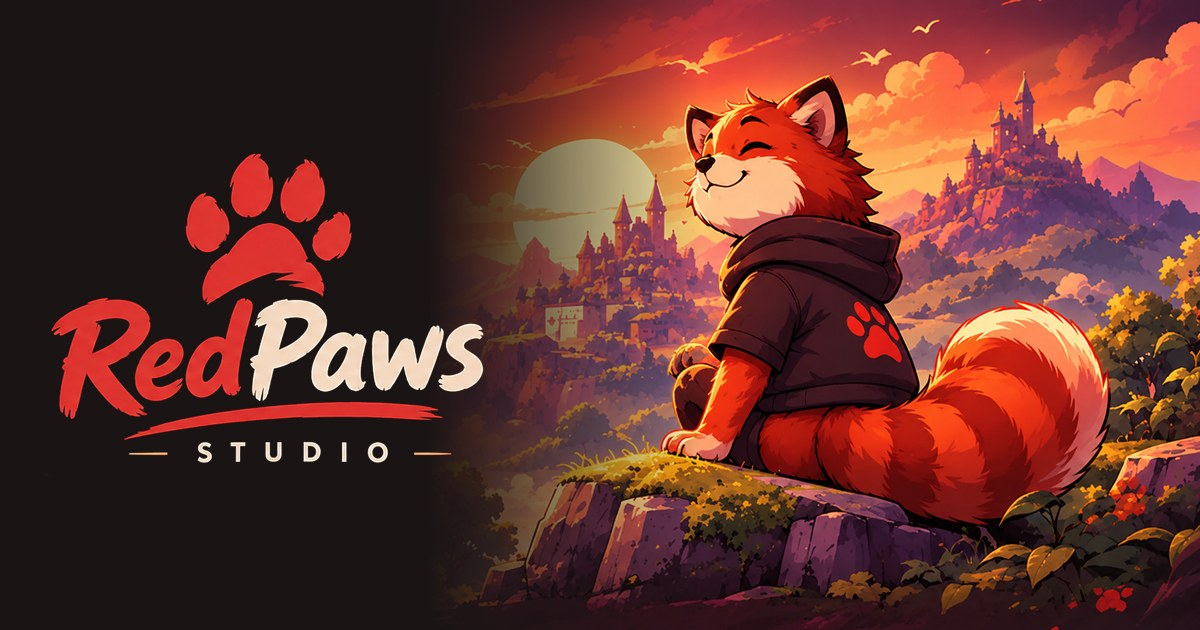
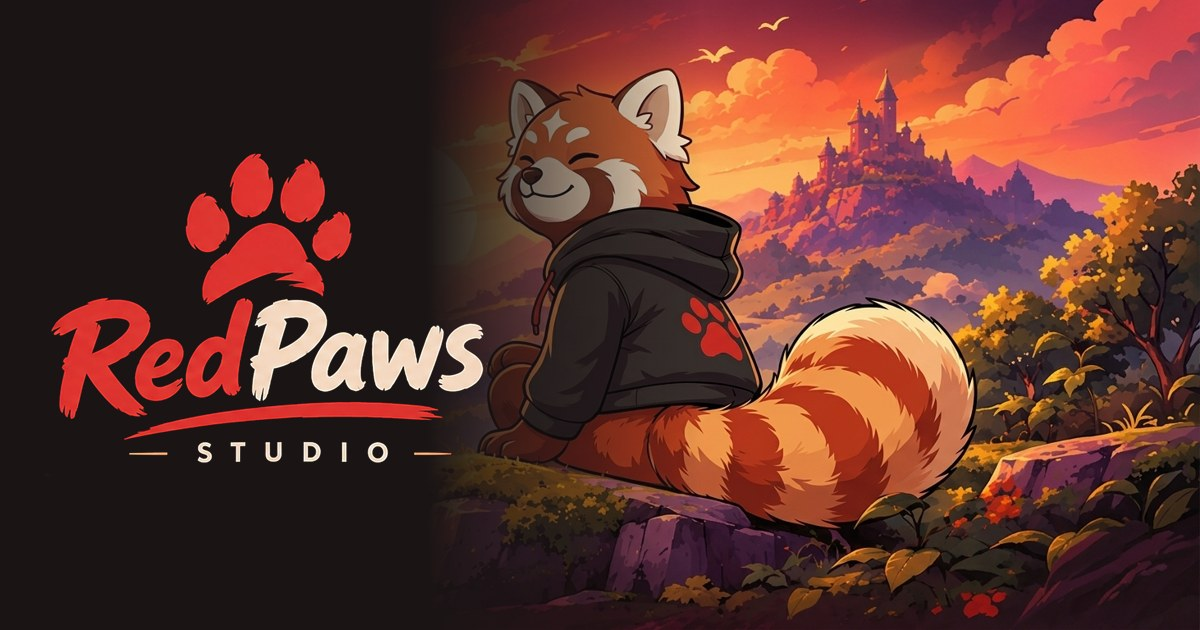
Site : le nouveau Rouxy (vrai panda roux) à l'accueil, dans le studio (têtes animées) et sur l'image de partage

diff --git a/fr/index.html b/fr/index.html
@@ -30,7 +30,7 @@
   <link rel="preconnect" href="https://fonts.googleapis.com">
   <link rel="preconnect" href="https://fonts.gstatic.com" crossorigin>
   <link href="https://fonts.googleapis.com/css2?family=Baloo+2:wght@600;700;800&family=Montserrat:wght@400;500;600;700&family=Pixelify+Sans:wght@500;600&display=swap" rel="stylesheet">
-  <link rel="preload" as="image" href="../assets/img/hero.webp">
+  <link rel="preload" as="image" href="../assets/img/hero-v2.webp">
   <link rel="stylesheet" href="../styles.css">
 </head>
 <body>
@@ -73,7 +73,7 @@
     <!-- 1. Accueil -->
     <section class="hero" id="home" data-enter>
       <div class="hero__art" aria-hidden="true">
-        <img src="../assets/img/hero.webp" alt="" width="1395" height="1127" fetchpriority="high">
+        <img src="../assets/img/hero-v2.webp" alt="" width="1376" height="768" fetchpriority="high">
       </div>
       <div class="wrap hero__in">
         <div class="hero__copy">
@@ -146,7 +146,7 @@
     <section class="studio" id="studio">
       <div class="wrap studio__grid">
         <div class="studio__art">
-          <img src="../assets/img/mascotte.webp" alt="Rouxy, la mascotte de RedPaws Studio : un panda roux en sweat à capuche noir, assis, le sourire jusqu'aux oreilles" width="1100" height="920" loading="lazy">
+          <img src="../assets/img/mascotte-v2.webp" alt="Rouxy, la mascotte de RedPaws Studio : un panda roux en sweat à capuche noir, face au château, le sourire jusqu'aux oreilles" width="660" height="630" loading="lazy">
         </div>
         <div class="studio__copy">
           <h2 class="title"><svg aria-hidden="true"><use href="#i-paw"/></svg> Qui se cache sous les pattes ?</h2>
@@ -154,9 +154,9 @@
           <p>J'en joue depuis toujours et j'ai envie de partager ce plaisir : des mondes chaleureux, des personnages expressifs, des règles qu'on comprend en une phrase et qu'on creuse pendant des heures.</p>
           <p>Et le panda roux ? C'est Rouxy, la mascotte : de la curiosité à revendre, un brin de maladresse et toujours l'envie d'explorer. Un peu le programme du studio.</p>
           <div class="studio__faces">
-            <img src="../assets/img/mascotte-rire.webp" alt="Rouxy éclate de rire" width="529" height="435" loading="lazy">
-            <img src="../assets/img/mascotte-malice.webp" alt="Rouxy, le regard plein de malice" width="458" height="420" loading="lazy">
-            <img src="../assets/img/mascotte-surprise.webp" alt="Rouxy, les yeux ronds de surprise" width="476" height="429" loading="lazy">
+            <img src="../assets/img/rouxy-rire.webp" alt="Rouxy éclate de rire" width="184" height="200" loading="lazy">
+            <img src="../assets/img/rouxy-content.webp" alt="Rouxy, tout sourire" width="188" height="200" loading="lazy">
+            <img src="../assets/img/rouxy-surprise.webp" alt="Rouxy, les yeux ronds de surprise" width="181" height="200" loading="lazy">
           </div>
         </div>
       </div>

diff --git a/index.html b/index.html
@@ -30,7 +30,7 @@
   <link rel="preconnect" href="https://fonts.googleapis.com">
   <link rel="preconnect" href="https://fonts.gstatic.com" crossorigin>
   <link href="https://fonts.googleapis.com/css2?family=Baloo+2:wght@600;700;800&family=Montserrat:wght@400;500;600;700&family=Pixelify+Sans:wght@500;600&display=swap" rel="stylesheet">
-  <link rel="preload" as="image" href="assets/img/hero.webp">
+  <link rel="preload" as="image" href="assets/img/hero-v2.webp">
   <link rel="stylesheet" href="styles.css">
 </head>
 <body>
@@ -73,7 +73,7 @@
     <!-- 1. Accueil -->
     <section class="hero" id="home" data-enter>
       <div class="hero__art" aria-hidden="true">
-        <img src="assets/img/hero.webp" alt="" width="1395" height="1127" fetchpriority="high">
+        <img src="assets/img/hero-v2.webp" alt="" width="1376" height="768" fetchpriority="high">
       </div>
       <div class="wrap hero__in">
         <div class="hero__copy">
@@ -146,7 +146,7 @@
     <section class="studio" id="studio">
       <div class="wrap studio__grid">
         <div class="studio__art">
-          <img src="assets/img/mascotte.webp" alt="Rouxy, the RedPaws Studio mascot: a red panda in a black hoodie, sitting, grinning from ear to ear" width="1100" height="920" loading="lazy">
+          <img src="assets/img/mascotte-v2.webp" alt="Rouxy, the RedPaws Studio mascot: a red panda in a black hoodie, facing the castle, grinning from ear to ear" width="660" height="630" loading="lazy">
         </div>
         <div class="studio__copy">
           <h2 class="title"><svg aria-hidden="true"><use href="#i-paw"/></svg> Who’s behind the paws?</h2>
@@ -154,9 +154,9 @@
           <p>I’ve played games all my life and I want to share that joy: warm worlds, expressive characters, and rules you get in one sentence and dig into for hours.</p>
           <p>And the red panda? That’s Rouxy, the mascot: endlessly curious, a little clumsy, always ready to explore. Pretty much the studio’s motto.</p>
           <div class="studio__faces">
-            <img src="assets/img/mascotte-rire.webp" alt="Rouxy bursts out laughing" width="529" height="435" loading="lazy">
-            <img src="assets/img/mascotte-malice.webp" alt="Rouxy with a mischievous look" width="458" height="420" loading="lazy">
-            <img src="assets/img/mascotte-surprise.webp" alt="Rouxy, wide-eyed with surprise" width="476" height="429" loading="lazy">
+            <img src="assets/img/rouxy-rire.webp" alt="Rouxy bursts out laughing" width="184" height="200" loading="lazy">
+            <img src="assets/img/rouxy-content.webp" alt="Rouxy, all smiles" width="188" height="200" loading="lazy">
+            <img src="assets/img/rouxy-surprise.webp" alt="Rouxy, wide-eyed with surprise" width="181" height="200" loading="lazy">
           </div>
         </div>
       </div>

diff --git a/README.md b/README.md
@@ -59,15 +59,16 @@ et n'existe que sur l'ordinateur.
 
 | Fichier du site | Ce que c'est | Origine |
 | --- | --- | --- |
-| `hero.webp` | Rouxy sur son rocher (accueil) | `marque/images/hero.png`, **version corrigée** à la main (deux oreilles) : c'est la référence, ne pas la redécouper du concept |
-| `logo.webp`, `logo-nav.webp` | Logo, grand et petit, fond transparent | `../Concept.png` |
-| `mascotte.webp` | Rouxy au repos (le studio) | `../Concept.png` |
-| `mascotte-rire.webp`, `mascotte-malice.webp`, `mascotte-surprise.webp` | Les trois expressions, détourées | `../Concept.png` |
-| `panorama.webp` | Coucher de soleil (fond de « Suivre ») | `../Concept.png` |
+| `hero-v2.webp` | Le nouveau Rouxy (vrai panda roux) face au château, à l'accueil | `../marque/images/hero-v2.png` (Gemini, 25/11/2026) |
+| `mascotte-v2.webp` | Rouxy en gros plan, section « Le studio » | recadrage de `hero-v2.png` |
+| `rouxy-rire.webp`, `rouxy-content.webp`, `rouxy-surprise.webp` | Trois têtes **animées** de Rouxy (section « Le studio ») | `../marque/rouxy/v2/`, réduites à 200 px |
+| `logo.webp`, `logo-nav.webp` | Logo, grand et petit, fond transparent | `../marque/concepts/Concept.png` |
+| `panorama.webp` | Coucher de soleil (fond de « Suivre ») | `../marque/concepts/Concept.png` |
 | `hexplore-combat.webp`, `hexplore-ile.webp` | Captures du jeu en français (page française) | prises dans Hexplore (Godot) |
 | `hexplore-combat-en.webp`, `hexplore-ile-en.webp` | Captures du jeu en anglais (page anglaise) | prises dans Hexplore avec `SHOT_LANG=en` |
-| `partage.jpg` | Aperçu quand on partage le lien (Discord, réseaux) | composée à partir du logo et de `hero` |
-| `favicon.png`, `apple-touch-icon.png` | Icônes d'onglet et d'écran d'accueil | `../Concept.png` |
+| `partage.jpg` | Aperçu quand on partage le lien (Discord, réseaux) | logo + `hero-v2.png` |
+| `favicon.png`, `apple-touch-icon.png` | Icônes d'onglet et d'écran d'accueil | `../marque/concepts/Concept.png` |
+| `hero.webp`, `mascotte*.webp` | Ancien Rouxy, plus utilisé par les pages (gardé en archive) | — |
 
 Les illustrations des concepts sont en basse définition, agrandies ×2 ou ×3 : une version haute définition
 au même nom les rendrait plus nettes. Pour remplacer une image : mettre le nouveau PNG dans `../marque/images/`,
